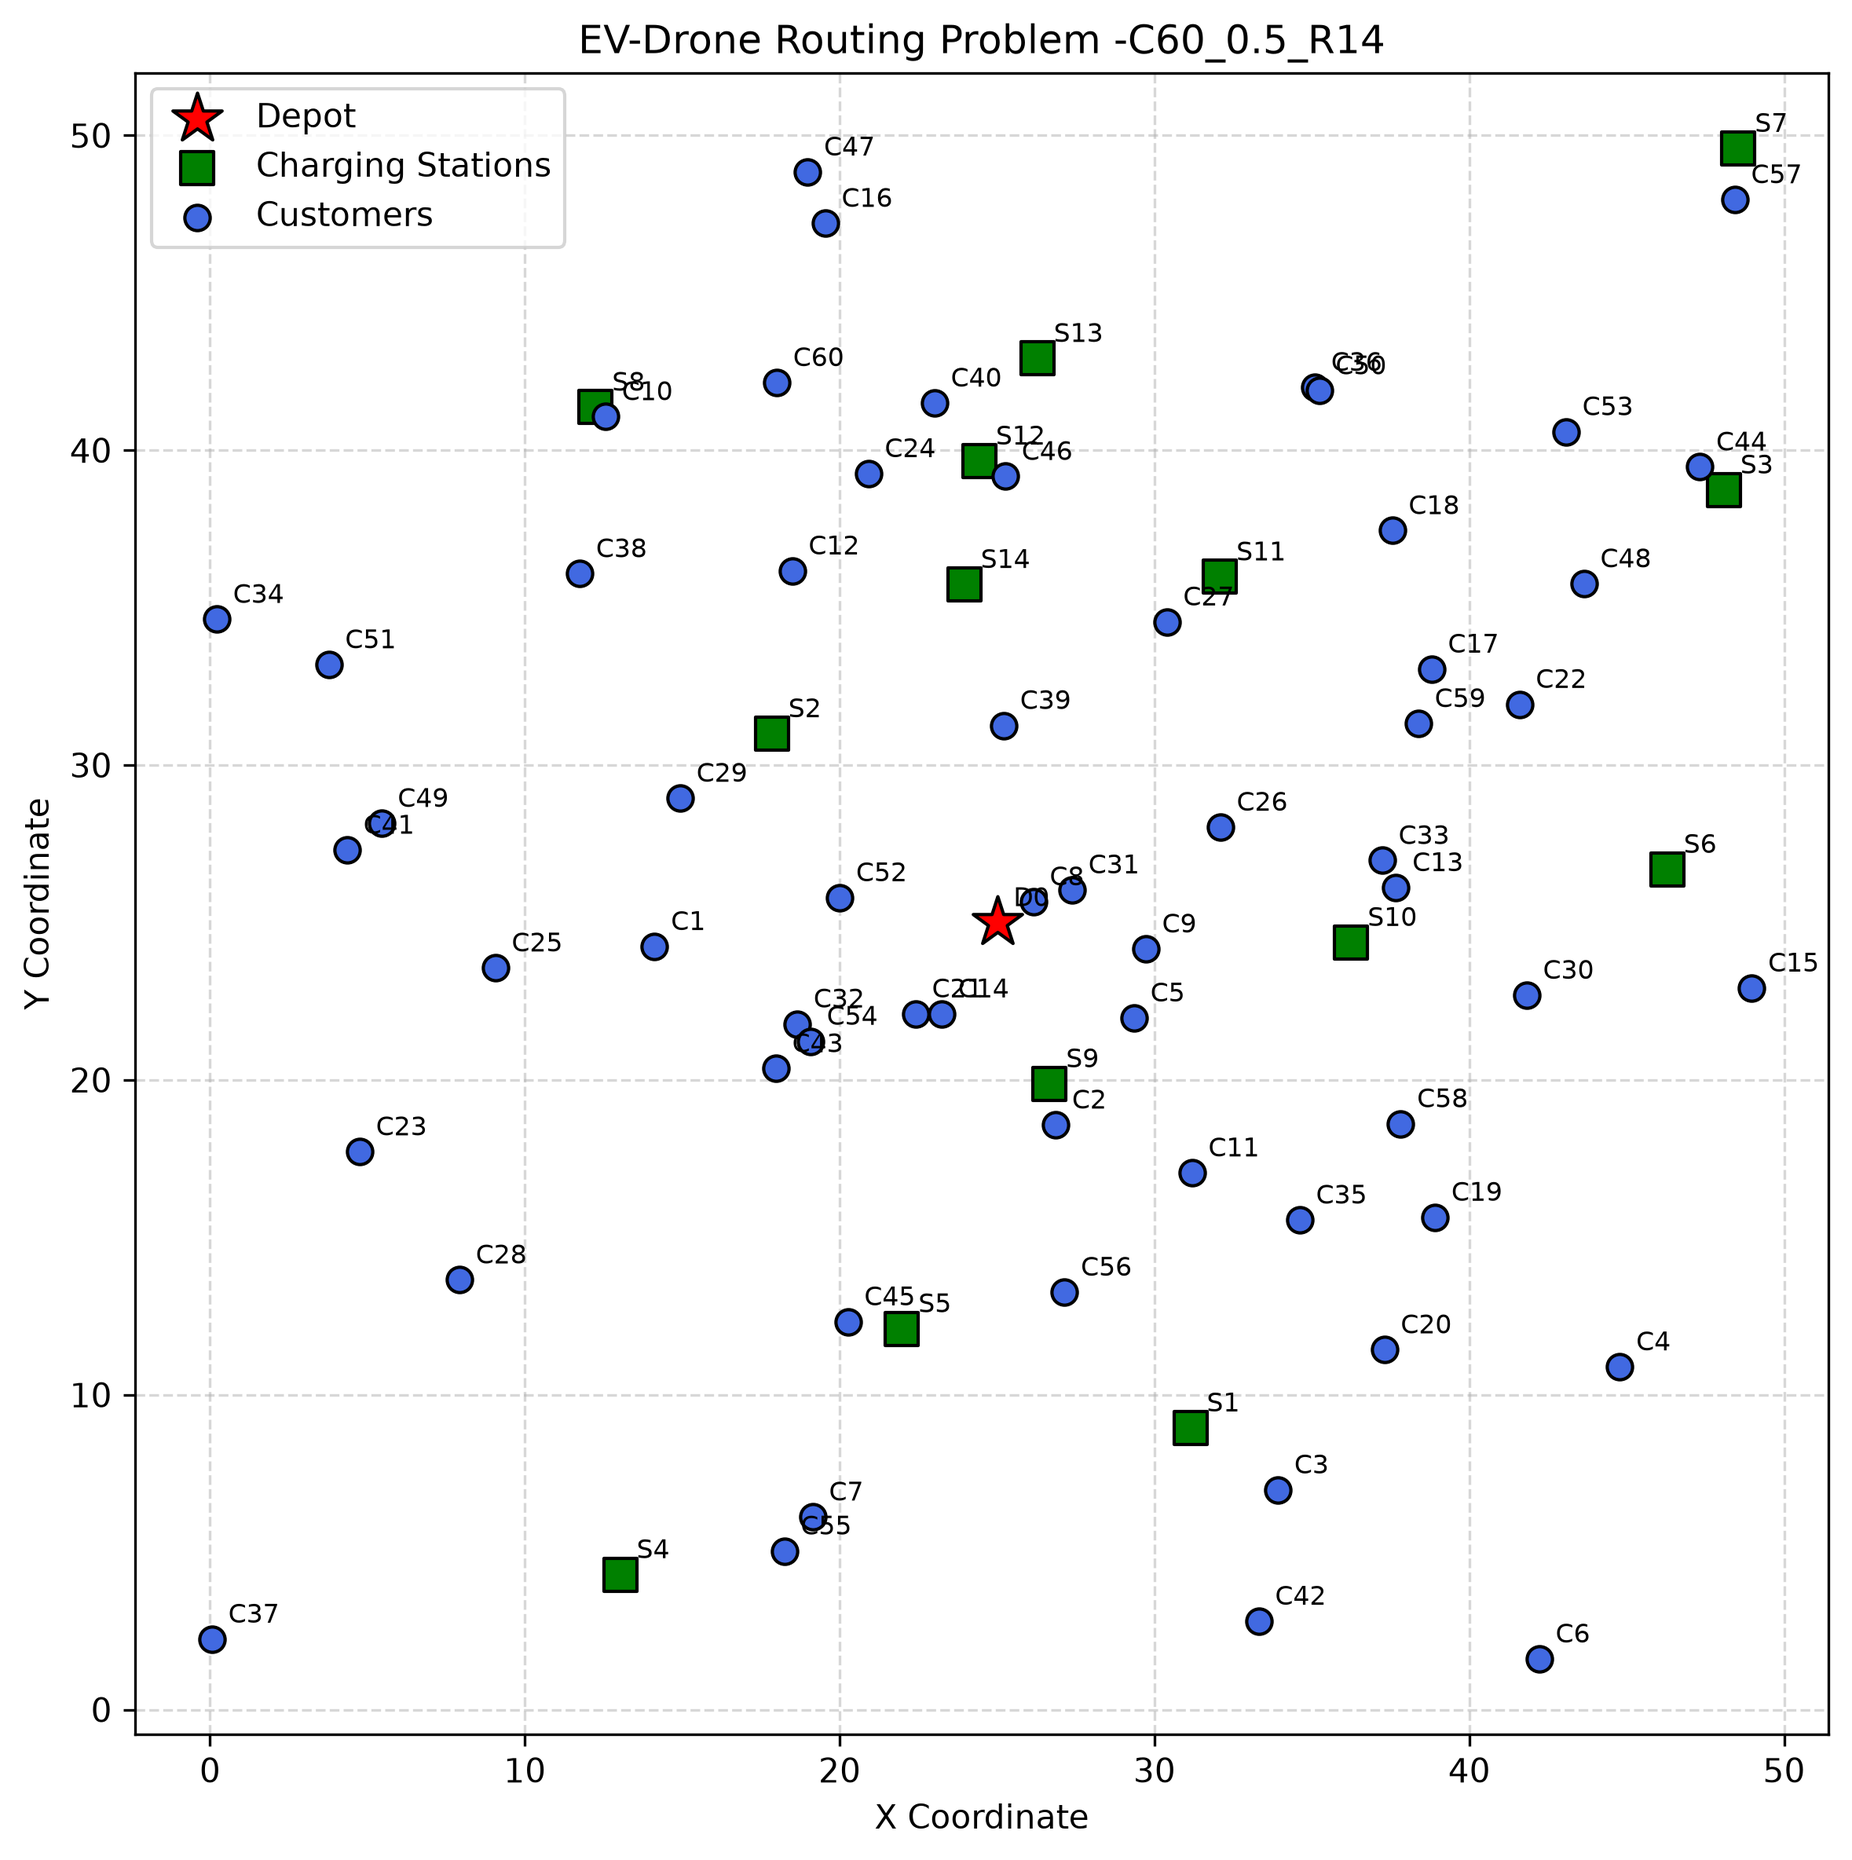
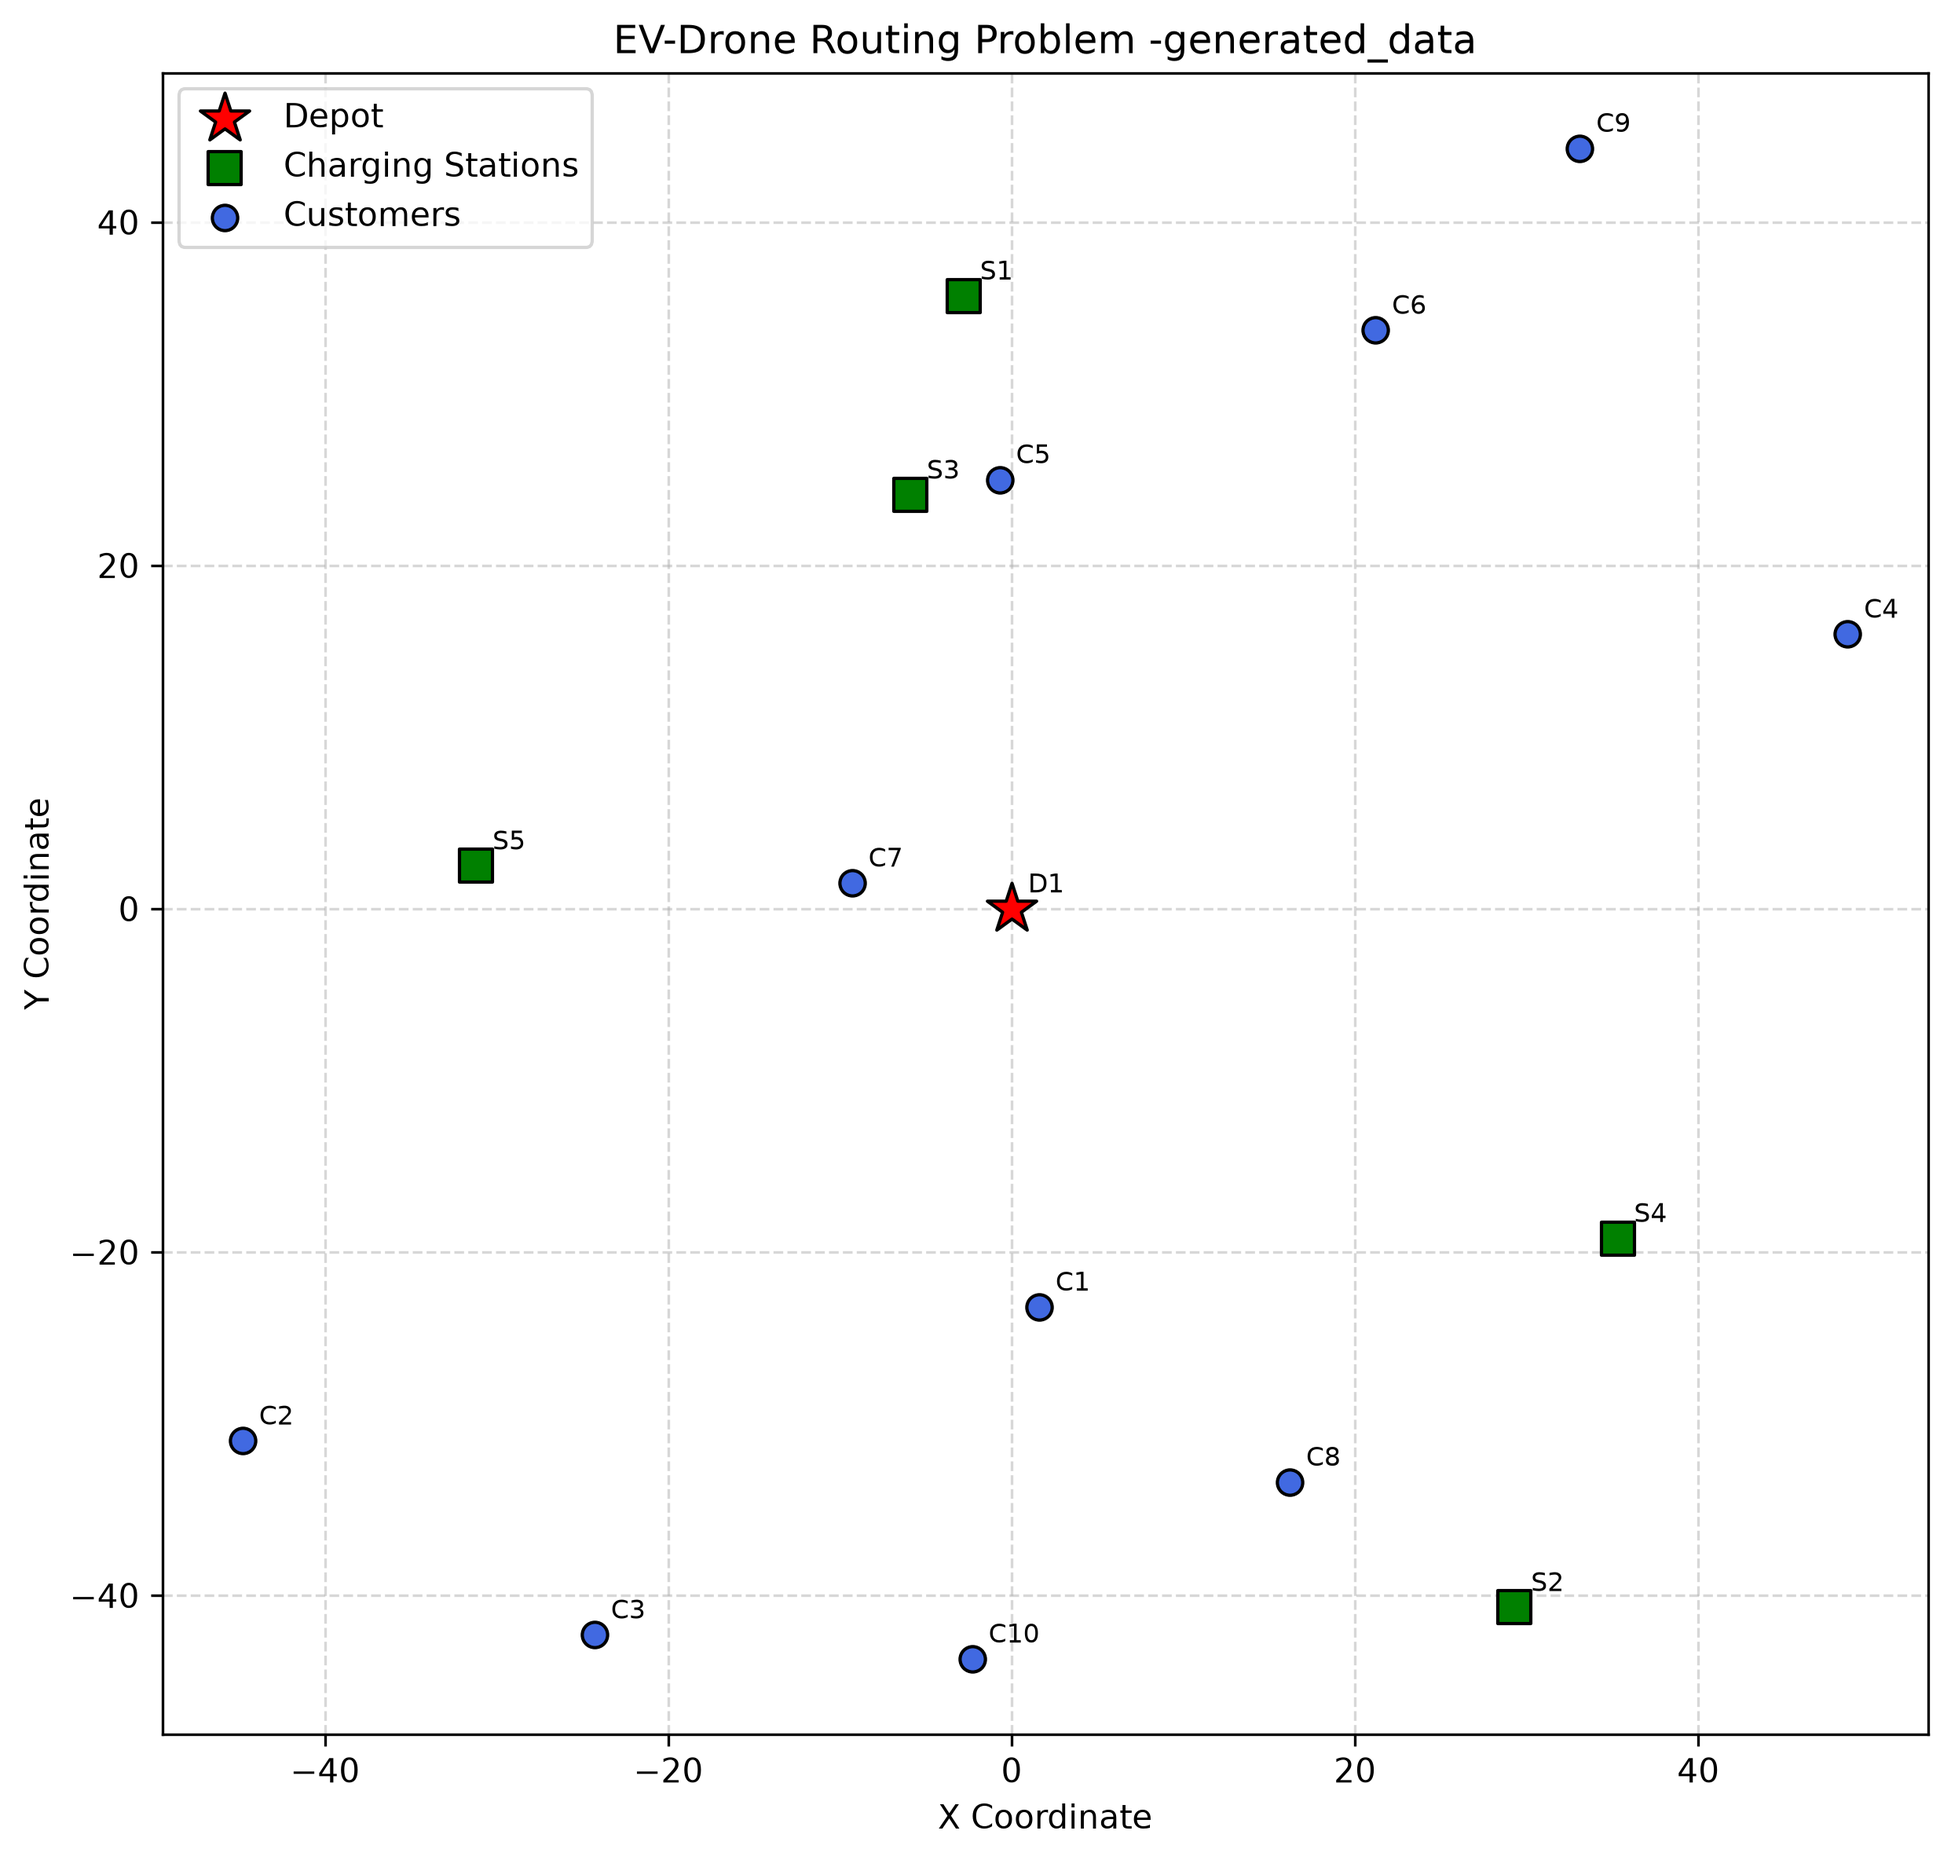
Further improvements

diff --git a/data/data_gen.py b/data/data_gen.py
@@ -1,5 +1,6 @@
 import math
 import random
+import numpy as np
 
 def data_gen(num_customers: int,
             num_stations: int,
@@ -8,7 +9,8 @@ def data_gen(num_customers: int,
             Temp: float = 25.0,
             Humidity: float = 60.0,
             Traffic: float = 0.0,
-            area_size: tuple = (100, 100))-> str:
+            area_size: tuple = (100, 100),
+            output_file: str = "data/generated_data.txt") -> str:
     """
     Generates a data file with depot, customers, and charging stations.
 
@@ -24,45 +26,46 @@ def data_gen(num_customers: int,
 
 
     # Generate depot
-    depot_id = "d1"
+    depot_id = "D1"
     depot_x, depot_y = depot_location
     depot_demand = 0  # Depot has no demand
 
     # Generate customers
     customers = []
     for i in range(1, num_customers + 1):
-        customer_id = f"c{i}"
-        customer_x = random.uniform(-area_size[0]/2, area_size[0]/2)
-        customer_y = random.uniform(-area_size[1]/2, area_size[1]/2)
-        customer_demand = random.randint(1, 150)  # Random demand between 1 and 10
+        customer_id = f"C{i}"
+        customer_x = np.random.randint(-area_size[0]*10/2, area_size[0]*10/2)/10.0
+        customer_y = np.random.randint(-area_size[1]*10/2, area_size[1]*10/2)/10.0
+        customer_demand = np.random.randint(1, 151)  # Random demand between 1 and 150
         customers.append((customer_id, customer_x, customer_y, customer_demand))
 
     # Generate charging stations
     stations = []
     for i in range(1, num_stations + 1):
-        station_id = f"s{i}"
-        station_x = random.uniform(-area_size[0]/2, area_size[0]/2)
-        station_y = random.uniform(-area_size[1]/2, area_size[1]/2)
+        station_id = f"S{i}"
+        station_x = np.random.randint(-area_size[0]*10/2, area_size[0]*10/2)/10.0
+        station_y = np.random.randint(-area_size[1]*10/2, area_size[1]*10/2)/10.0
         station_demand = 0  # Charging stations have no demand
         stations.append((station_id, station_x, station_y, station_demand))
 
     if wind:
         # Generate wind data
-        wind_speed = random.uniform(0, 10)  # Random wind speed between 0 and 10 m/s
-        wind_direction = random.uniform(0, 360)  # Random wind direction in degrees
+        wind_speed = np.random.randint(0, 11)  # Random wind speed between 0 and 10 m/s
+        wind_direction = np.random.randint(0, 361)  # Random wind direction in degrees
 
     else:
         wind_speed = 0
         wind_direction = 0
 
     # Write to file
-    filename = "data/generated_data.txt"
+    filename = output_file
     with open(filename, "w") as f:
-        f.write("id Type x y demand Temp Humidity Wind  Traffic WindDir \n")  # Header
+        f.write("id Type x Y demand Temp Humidity Wind  Traffic WindDir \n")  # Header
         f.write(f"{depot_id} d {depot_x} {depot_y} {depot_demand} {Temp} {Humidity} {wind_speed} {Traffic} {wind_direction}\n")
+        for station in stations:
+                    f.write(f"{station[0]} s {station[1]} {station[2]} {station[3]} {Temp} {Humidity} {wind_speed} {Traffic} {wind_direction}\n")
         for customer in customers:
             f.write(f"{customer[0]} c {customer[1]} {customer[2]} {customer[3]} {Temp} {Humidity} {wind_speed} {Traffic} {wind_direction}\n")
-        for station in stations:
-            f.write(f"{station[0]} s {station[1]} {station[2]} {station[3]} {Temp} {Humidity} {wind_speed} {Traffic} {wind_direction}\n")
+        
 
     return filename

diff --git a/main.py b/main.py
@@ -1,4 +1,5 @@
 from mapper import mapper_inni
+from data.data_gen import data_gen
 import os
 
 def main():
@@ -8,7 +9,8 @@ def main():
 if __name__ == '__main__':
 
   main()
-  mapper_inni("data/Paper_data/C60_0.5_R14.txt", save_fig=True)
+  synth_data = data_gen(10,5, depot_location=(0, 0), wind=True, Temp=25.0, Humidity=60.0, Traffic=0.0, area_size=(100, 100))
+  mapper_inni(synth_data, save_fig=True)
 
   #print("Current directory:", os.getcwd())
   #print("File exists:", os.path.exists("data.txt"))
